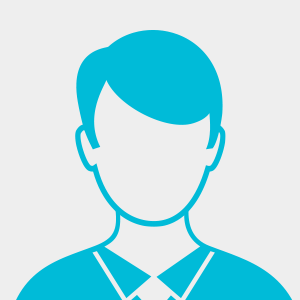
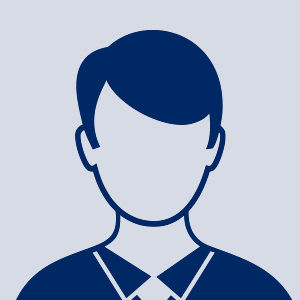
style: updated css in guest login, header, loader, reports & update profile img

Changed region(s): [[0.03, 0.09, 0.99, 1.0]]

diff --git a/apps/OpenSign/src/components/pdf/TextFontSetting.js b/apps/OpenSign/src/components/pdf/TextFontSetting.js
@@ -1,23 +1,23 @@
 import React from "react";
 import ModalUi from "../../primitives/ModalUi";
 import { fontColorArr, fontsizeArr } from "../../constant/Utils";
-import { themeColor } from "../../constant/const";
 
 function TextFontSetting(props) {
   return (
     <ModalUi
       headerColor={"#dc3545"}
       isOpen={props.isTextSetting}
+      reduceWidth={"max-w-[350px]"}
       title={"Text field"}
       handleClose={() => {
         props.setIsTextSetting(false);
       }}
     >
-      <div style={{ height: "100%", padding: 20 }}>
-        <div className="flex items-center gap-4">
-          <span>Font size: </span>
+      <div className="h-full p-[20px]">
+        <div className="flex items-center">
+          <span>Font size:</span>
           <select
-            className="border-[1px] border-gray-300 px-[5px]"
+            className="ml-[7px] op-select op-select-bordered op-select-sm focus:outline-none hover:border-base-content text-xs"
             value={
               props.fontSize || props.currWidgetsDetails?.options?.fontSize
             }
@@ -25,20 +25,20 @@ function TextFontSetting(props) {
           >
             {fontsizeArr.map((size, ind) => {
               return (
-                <option style={{ fontSize: "13px" }} value={size} key={ind}>
+                <option className="text-[13px]" value={size} key={ind}>
                   {size}
                 </option>
               );
             })}
           </select>
-          <div className="flex flex-row gap-1">
+          <div className="flex flex-row gap-1 items-center ml-4">
             <span>color: </span>
             <select
               value={
                 props.fontColor || props.currWidgetsDetails?.options?.fontColor
               }
               onChange={(e) => props.setFontColor(e.target.value)}
-              className="border-[1px] border-gray-300 px-[2px] ml-[10px] "
+              className="ml-[7px] op-select op-select-bordered op-select-sm focus:outline-none hover:border-base-content text-xs"
             >
               {fontColorArr.map((color, ind) => {
                 return (
@@ -54,17 +54,16 @@ function TextFontSetting(props) {
                   props.fontColor ||
                   props.currWidgetsDetails?.options?.fontColor
               }}
-              className="w-5 h-[19px]"
+              className="w-5 h-[19px] ml-1"
             ></span>
           </div>
         </div>
 
-        <div className="h-[1px] bg-[#9f9f9f] w-full mt-[15px] mb-[15px]"></div>
+        <div className="h-[1px] bg-[#9f9f9f] w-full mt-[15px] mb-2"></div>
         <button
           onClick={() => props.handleSaveFontSize()}
-          style={{ background: themeColor }}
           type="button"
-          className="finishBtn "
+          className="op-btn op-btn-primary mt-2"
         >
           save
         </button>

diff --git a/apps/OpenSign/src/pages/GuestLogin.js b/apps/OpenSign/src/pages/GuestLogin.js
@@ -191,7 +191,7 @@ function GuestLogin() {
         <div className="m-1 md:m-2 p-[30px] text-base-content bg-base-100 op-card shadow-md">
           <div className="md:w-[250px] md:h-[66px] inline-block overflow-hidden mt-2 mb-11">
             {appLogo && (
-              <img src={appLogo} className="object-contain h-full" alt="logo" />
+              <img src={appLogo} className="object-contain" alt="logo" />
             )}
           </div>
           {contactId ? (
@@ -199,7 +199,7 @@ function GuestLogin() {
               {!EnterOTP ? (
                 <div className="w-full md:w-[50%] text-base-content">
                   <h1 className="text-2xl md:text-[30px]">Welcome Back!</h1>
-                  <legend className="text-[12px] text-[#878787] mt-2">
+                  <legend className="text-[12px] text-[#878787] mt-2 mb-1">
                     Verification code is sent to your email
                   </legend>
                   <div className="p-[20px] outline outline-1 outline-slate-300/50 my-2 op-card shadow-md">
@@ -207,17 +207,17 @@ function GuestLogin() {
                       type="email"
                       name="mobile"
                       value={email}
-                      className="op-input op-input-bordered op-input-sm focus:outline-none hover:border-base-content w-full text-xs"
+                      className="op-input op-input-bordered op-input-sm focus:outline-none hover:border-base-content w-full disabled:text-[#5c5c5c] text-xs"
                       disabled
                     />
                   </div>
-                  <div className="mt-2">
+                  <div className="mt-3">
                     <button
                       className="op-btn op-btn-primary"
                       onClick={(e) => handleSendOTPBtn(e)}
                       disabled={loading}
                     >
-                      {loading ? "Loading..." : "Send OTP"}
+                      {loading ? "Loading..." : "Get verification code"}
                     </button>
                   </div>
                 </div>
@@ -228,7 +228,7 @@ function GuestLogin() {
                 >
                   <h1 className="text-2xl md:text-[30px]">Welcome Back!</h1>
                   <legend className="text-[12px] text-[#878787] mt-2">
-                    You will get a OTP via Email
+                    You will get a verification code via Email
                   </legend>
                   <div className="p-[20px] pt-[15px] outline outline-1 outline-slate-300/50 op-card my-2 shadow-md">
                     <p className="text-sm">Enter Verification Code</p>
@@ -240,7 +240,7 @@ function GuestLogin() {
                       onChange={(e) => setOTP(e.target.value)}
                     />
                   </div>
-                  <div className="mt-2">
+                  <div className="mt-2.5">
                     <button
                       className="op-btn op-btn-primary"
                       type="submit"
@@ -298,7 +298,7 @@ function GuestLogin() {
                     disabled
                   />
                 </div>
-                <div className="mb-2">
+                <div className="mt-2.5">
                   <label
                     htmlFor="phone"
                     className="block text-xs text-gray-700 font-semibold"

diff --git a/apps/OpenSign/src/primitives/GetReportDisplay.js b/apps/OpenSign/src/primitives/GetReportDisplay.js
@@ -1583,11 +1583,11 @@ const ReportTable = (props) => {
             </tbody>
           </table>
         </div>
-        <div className="op-join flex flex-wrap items-center p-2 ">
+        <div className="op-join flex flex-wrap items-center p-2">
           {props.List.length > props.docPerPage && (
             <button
               onClick={() => paginateBack()}
-              className="op-join-item op-btn "
+              className="op-join-item op-btn op-btn-sm"
             >
               Prev
             </button>
@@ -1599,7 +1599,7 @@ const ReportTable = (props) => {
               disabled={x === "..."}
               className={`${
                 x === currentPage ? "op-btn-active" : ""
-              } op-join-item op-btn`}
+              } op-join-item op-btn op-btn-sm`}
             >
               {x}
             </button>
@@ -1607,7 +1607,7 @@ const ReportTable = (props) => {
           {props.List.length > props.docPerPage && (
             <button
               onClick={() => paginateFront()}
-              className="op-join-item op-btn"
+              className="op-join-item op-btn op-btn-sm"
             >
               Next
             </button>
@@ -1616,7 +1616,7 @@ const ReportTable = (props) => {
         {props.List?.length <= 0 && (
           <div
             className={`${
-              isDashboard ? "h-[330px]" : ""
+              isDashboard ? "h-[317px]" : ""
             } flex flex-col items-center justify-center w-ful bg-base-100 text-base-content rounded-xl py-4`}
           >
             <div className="w-[60px] h-[60px] overflow-hidden">

diff --git a/apps/OpenSign/src/components/Header.js b/apps/OpenSign/src/components/Header.js
@@ -96,7 +96,7 @@ const Header = ({ showSidebar }) => {
     <div className="op-navbar bg-base-100 shadow">
       <div className="flex-none">
         <button
-          className="op-btn op-btn-square op-btn-ghost focus:outline-none"
+          className="op-btn op-btn-square op-btn-ghost focus:outline-none hover:bg-transparent op-btn-sm no-animation"
           onClick={showSidebar}
         >
           <i className="fa-solid fa-bars text-xl text-base-content"></i>
@@ -151,7 +151,11 @@ const Header = ({ showSidebar }) => {
           </div>
         )}
         <div className="op-dropdown op-dropdown-end" id="profile-menu">
-          <div tabIndex={0} role="button" className="op-btn op-btn-ghost">
+          <div
+            tabIndex={0}
+            role="button"
+            className="op-btn op-btn-ghost op-btn-xs w-[10px] h-[20px] hover:bg-transparent"
+          >
             <i
               tabIndex={0}
               role="button"

diff --git a/apps/OpenSign/src/constant/Utils.js b/apps/OpenSign/src/constant/Utils.js
@@ -376,14 +376,14 @@ export const addWidgetOptions = (type) => {
 };
 export const getWidgetType = (item, isHeader) => {
   return (
-    <div className="op-btn w-fit  md:w-[100%] op-btn-primary op-btn-outline op-btn-sm focus:outline-none outline outline-[1.5px] ml-[6px] md:ml-0 p-0 overflow-hidden">
+    <div className="op-btn w-fit md:w-[100%] op-btn-primary op-btn-outline op-btn-sm focus:outline-none outline outline-[1.5px] ml-[6px] md:ml-0 p-0 overflow-hidden">
       <div className="w-full h-full flex md:justify-between items-center">
         <div className="flex justify-start items-center text-[13px] ml-1">
           {!isMobile && <i className="fa-sharp fa-solid fa-grip-vertical"></i>}
           <span
             className={`${
-              isHeader && "md:text-[8px]  lg:text-[15px]"
-            } md:inline-block text-center text-[15px] ml-[5px] font-semibold`}
+              isHeader && "md:text-[8px] lg:text-[15px]"
+            } md:inline-block text-center text-[15px] ml-[5px] font-semibold pr-1 md:pr-0`}
           >
             {item.type}
           </span>

diff --git a/apps/OpenSign/src/components/dashboard/DashboardButton.js b/apps/OpenSign/src/components/dashboard/DashboardButton.js
@@ -35,9 +35,7 @@ const DashboardButton = (props) => {
             } text-[25px] lg:text-[30px]`}
           ></i>
         </span>
-        <div className="op-card-title text-lg ml-3 text-base-content">
-          {props.Label}
-        </div>
+        <div className=" text-lg ml-3 text-base-content">{props.Label}</div>
       </div>
     </div>
   );

diff --git a/apps/OpenSign/src/components/sidebar/Sidebar.js b/apps/OpenSign/src/components/sidebar/Sidebar.js
@@ -12,7 +12,9 @@ const Sidebar = ({ isOpen, closeSidebar }) => {
   const [submenuOpen, setSubmenuOpen] = useState(false);
   let username = localStorage.getItem("username");
   const image = localStorage.getItem("profileImg") || dp;
-  const tenantname = localStorage.getItem("TenantName");
+  const tenantname = localStorage.getItem("Extand_Class")
+    ? JSON.parse(localStorage.getItem("Extand_Class"))?.[0]?.Company
+    : "";
 
   useEffect(() => {
     if (localStorage.getItem("accesstoken")) {

diff --git a/apps/OpenSign/public/index.html b/apps/OpenSign/public/index.html
@@ -7,7 +7,7 @@
   <!-- <link rel="icon" type="image/png"
[1 lines of base64/hex data omitted]
     sizes="40x40" /> -->
-  <meta name="viewport" content="width=device-width, initial-scale=1" />
+  <meta name="viewport" content="width=device-width, initial-scale=1, maximum-scale=1" />
   <meta name="theme-color" content="#000000" />
   <meta name="description" content="The fastest way to sign PDFs & request signatures from others" />
   <!-- <link rel="apple-touch-icon" href="%PUBLIC_URL%/logo192.png" /> -->

diff --git a/apps/OpenSign/src/components/Footer.js b/apps/OpenSign/src/components/Footer.js
@@ -58,7 +58,7 @@ const Footer = () => {
       <button
         className={`${
           showButton ? "block" : "hidden"
-        } fixed bottom-4 right-4 px-3 p-2 text-xl bg-blue-500 text-white rounded focus:outline-none`}
+        } fixed bottom-4 right-4 px-3 p-2 text-xl op-bg-secondary text-white rounded focus:outline-none`}
         onClick={scrollToTop}
       >
         <i className="fa-solid fa-angle-up"></i>

diff --git a/apps/OpenSign/src/components/pdf/PdfHeader.js b/apps/OpenSign/src/components/pdf/PdfHeader.js
@@ -198,7 +198,7 @@ function Header({
                     )}
                     <DropdownMenu.Root>
                       <DropdownMenu.Trigger asChild>
-                        <div className="font-[650] text-[18px] px-2 ml-[4px] op-link op-link-info no-underline">
+                        <div className="font-[650] text-[18px] px-2 ml-[4px] text-base-content no-underline">
                           <i
                             className="fa fa-ellipsis-v"
                             aria-hidden="true"

diff --git a/apps/OpenSign/src/pages/Login.js b/apps/OpenSign/src/pages/Login.js
@@ -1103,6 +1103,7 @@ function Login() {
                           type="email"
                           className="op-input op-input-bordered op-input-sm focus:outline-none hover:border-base-content w-full text-xs"
                           name="email"
+                          autoComplete="username"
                           value={state.email}
                           onChange={handleChange}
                           required
@@ -1122,6 +1123,7 @@ function Login() {
                                 className="op-input op-input-bordered op-input-sm focus:outline-none hover:border-base-content w-full text-xs"
                                 name="password"
                                 value={state.password}
+                                autoComplete="current-password"
                                 onChange={handleChange}
                                 required
                               />

diff --git a/apps/OpenSign/src/primitives/Loader.js b/apps/OpenSign/src/primitives/Loader.js
@@ -2,7 +2,7 @@ import React from "react";
 
 const Loader = () => {
   return (
-    <div className="op-loading op-loading-infinity w-[4rem] text-accent"></div>
+    <div className="op-loading op-loading-infinity w-[4rem] text-neutral"></div>
   );
 };
 